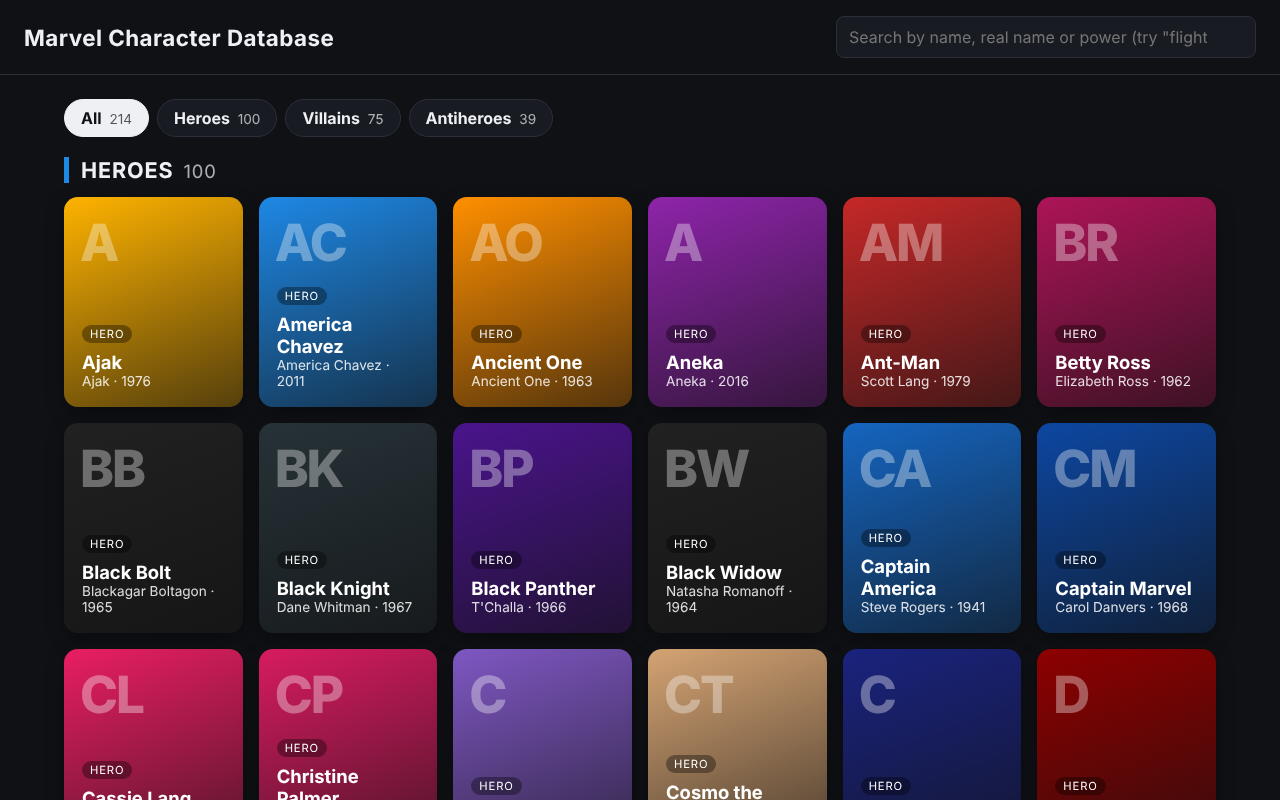
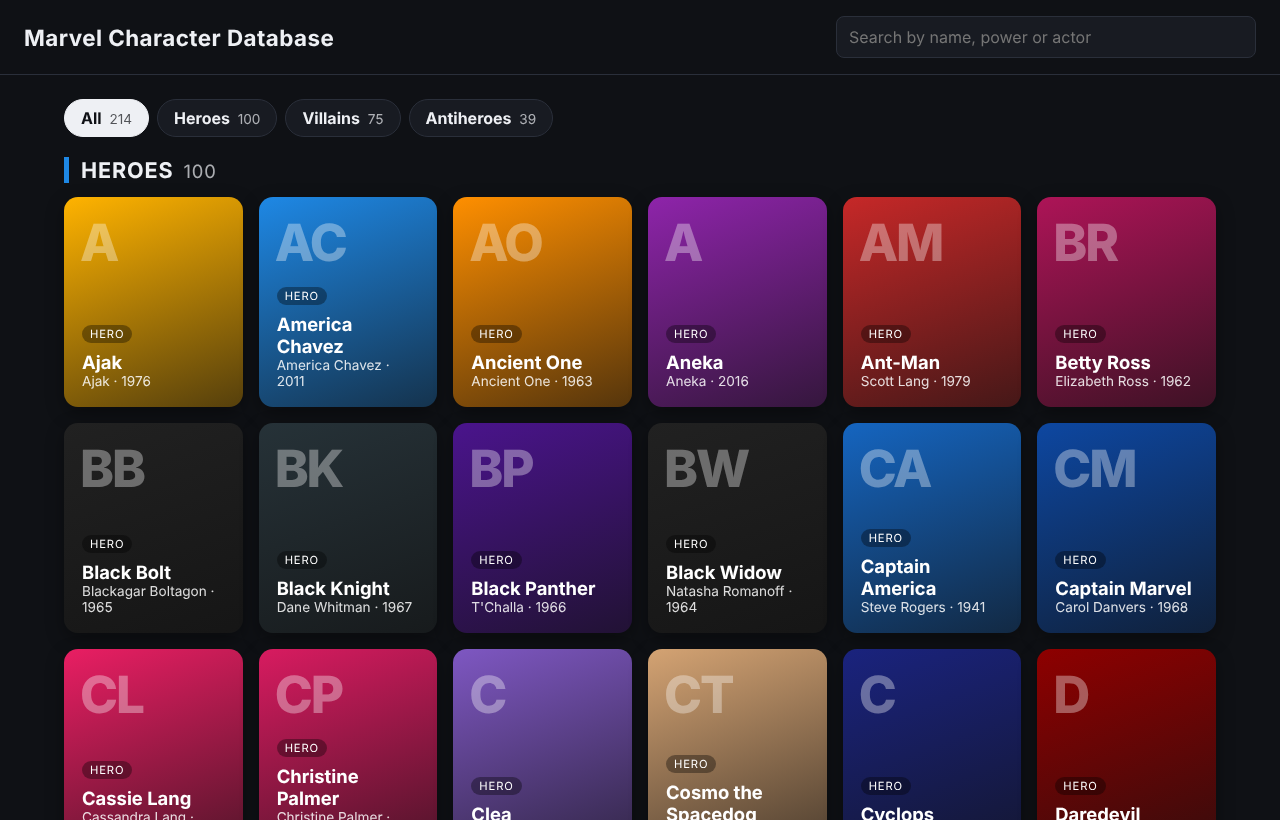
README and screenshots for the new cards: MCU section, relationships, rogues galleries and the photo slot

diff --git a/README.md b/README.md
@@ -2,7 +2,15 @@
 
 **▶ [Live demo](https://theoyanvno.github.io/marvel-character-database/)**
 
-A Python + SQL web app for exploring 214 Marvel characters (100 heroes, 75 villains and 39 antiheroes), grouped into **Heroes**, **Villains** and **Antiheroes**. Type a name, real name or power (try "flight"), switch between sections, or click a card. It includes every comic character with a real role in a Marvel Cinematic Universe film or Disney+ series, from Iron Man (2008) through Spider-Man: Brand New Day and Wonder Man (2026), plus classic characters from the comics. The selected card slides to the side and the character's profile appears next to it: origin, powers, teams, relationships, and a timeline of pop culture highlights.
+A Python + SQL web app for exploring 214 Marvel characters (100 heroes, 75 villains and 39 antiheroes), grouped into **Heroes**, **Villains** and **Antiheroes**. Type a name, real name, power or actor (try "flight" or "Hiddleston"), switch between sections, or click a card. It includes every comic character with a real role in a Marvel Cinematic Universe film or Disney+ series, from Iron Man (2008) through Spider-Man: Brand New Day and Wonder Man (2026), plus classic characters from the comics. The selected card slides to the side and the character's profile appears next to it:
+
+- **In the MCU:** who plays them, their first MCU appearance, a short summary of their story across the movies and shows, and every title they're in
+- **Origin, powers and teams** from the comics
+- **Relationships** grouped into family, romantic and friends (allies for villains)
+- **Rogues gallery:** a hero's enemies as small cards you can click through (villains show the heroes they fight)
+- A timeline of pop culture highlights
+
+Every card has a **photo slot** on its front. Add an image file and one line to the character's data, and the photo fills the card and the profile, with a credit underneath; characters without one keep their color card with initials. See [Card photos](#card-photos).
 
 **Tech:** Python · Flask · SQLite (`sqlite3`) · SQL · vanilla JavaScript · CSS animations · `unittest`
 
@@ -12,24 +20,29 @@ A Python + SQL web app for exploring 214 Marvel characters (100 heroes, 75 villa
 
 ## Database design
 
-Seven related tables ([`sql/schema.sql`](sql/schema.sql)):
+Nine related tables ([`sql/schema.sql`](sql/schema.sql)):
 
 ```
 characters ──< character_powers >── powers
-     │    └──< character_teams  >── teams
-     ├──< relationships  (related_id links back to characters when that person is in the database)
+     │    ├──< character_teams  >── teams
+     │    └──< mcu_roles        >── mcu_titles   (61 MCU movies and series, in release order)
+     ├──< relationships  (family / friend / romantic / enemy; related_id links back to characters)
      └──< appearances    (comic, film, TV, animation; year and notes)
 ```
 
 - **Many-to-many** relationships through link tables (`character_powers`, `character_teams`) with composite primary keys
 - **Foreign keys**, `CHECK` constraints (alignment, relationship kind, medium), `UNIQUE` names and indexes
-- Data loads from [`data/characters.json`](data/characters.json) in a single transaction, then an `UPDATE` with a subquery links relationships to characters that exist in the database
+- Data loads from [`data/characters.json`](data/characters.json) and [`data/mcu_titles.json`](data/mcu_titles.json) in a single transaction, then an `UPDATE` with subqueries links relationships to characters in the database, by hero name or by real name when exactly one character has it
+- Each relationship pair is stored once; the profile query shows it on both characters' pages
 
 ## SQL highlights
 
 The app's queries live in [`sql/app_queries.sql`](sql/app_queries.sql), loaded by [`app/db.py`](app/db.py), and use parameterized statements (`?`) to prevent SQL injection. More to explore in [`sql/queries.sql`](sql/queries.sql):
 
-- Search across three tables with `EXISTS` + `LIKE`, ranked with `ORDER BY CASE` so names that start with the search come before power matches
+- Search across three tables (names, powers, MCU actor) with `EXISTS` + `LIKE`, ranked with `ORDER BY CASE` so names that start with the search come first
+- Relationships from both sides with `UNION` and `NOT EXISTS`, flipping "mentor" to "protégé" with a `CASE` when seen from the other side
+- First MCU appearance by sorting each character's titles with `COALESCE(season year, title year)`
+- Biggest rogues galleries with `COUNT(DISTINCT …)` over enemy pairs stored on either side
 - Powers shared by several characters with `GROUP BY`, `HAVING` and `GROUP_CONCAT`
 - Characters on no team with `LEFT JOIN … IS NULL`
 - Rivalries where both characters are in the database (joining `characters` twice)
@@ -41,11 +54,11 @@ The app's queries live in [`sql/app_queries.sql`](sql/app_queries.sql), loaded b
 
 | Method | Endpoint | Returns |
 |---|---|---|
-| GET | `/api/characters?q=text` | Matching cards (name, real name or power) |
+| GET | `/api/characters?q=text` | Matching cards (name, real name, power or MCU actor) |
 | GET | `/api/characters/<id>` | Full profile, or 404 |
 | GET | `/api/characters?side=villain` | Only heroes, villains or antiheroes (combine with `q`) |
 | GET | `/api/sides` | How many characters are on each side |
-| GET | `/api/stats` | Counts by alignment, most common powers, debuts per decade |
+| GET | `/api/stats` | Counts by alignment, most common powers, debuts per decade, most MCU appearances, biggest rogues galleries |
 
 ## Live demo: the same SQL in the browser
 
@@ -63,7 +76,7 @@ The front end calls one small data layer (`api.cards()`, `api.sides()`, `api.cha
 python -m venv .venv && source .venv/bin/activate   # Windows: .venv\Scripts\activate
 pip install -r requirements.txt
 python -m app.main                                  # http://localhost:5000
-python -m unittest discover -s tests -t .           # 15 tests
+python -m unittest discover -s tests -t .           # 21 tests
 python build_db.py                                  # optional: writes marvel.db to explore in DB Browser for SQLite
 python build_site.py                                # rebuilds the live demo in docs/
 ```
@@ -72,8 +85,17 @@ python build_site.py                                # rebuilds the live demo in 
 
 Add an entry to `data/characters.json` (same fields as the others) and restart the app. The database is rebuilt from the JSON file on startup. Run `python build_site.py` to update the live demo.
 
+## Card photos
+
+1. Put the image in [`app/static/images/`](app/static/images) (`.jpg`, `.png` or `.webp`, portrait works best).
+2. In `data/characters.json`, add `"image": "spider-man.jpg"` to the character, and optionally `"image_credit": "Photo by …"`.
+3. Run `python build_site.py` to update the live demo.
+
+Building the database checks that each `image` is a plain file name with an allowed extension and that the file exists, so a typo stops the build with the character's name instead of showing a broken picture. The search and profile queries return the file name; the front end shows it as the card background with a fade into the card color behind the name. More in [`app/static/images/README.md`](app/static/images/README.md).
+
 ## Notes
 
 - Each character's first comic appearance and creators come from the comics; for characters the films changed (for example Whiplash, Taskmaster or Ghost), the origin explains how the MCU version differs.
-- Unofficial fan project for learning Python and SQL. Not affiliated with or endorsed by Marvel. Character summaries are written in my own words, and the cards use initials instead of artwork.
+- The MCU section covers live-action films and series through October 2026, including the Netflix Defenders shows, which Marvel's official timeline counts as MCU. Characters who haven't appeared yet (like Storm or Magneto) say so. Sony's Venom, Morbius and Kraven films and Fox's X-Men films aren't counted, except where those characters crossed into MCU releases such as No Way Home and Deadpool & Wolverine.
+- Unofficial fan project for learning Python and SQL. Not affiliated with or endorsed by Marvel. Character summaries are written in my own words. Cards show initials until a photo is added; any photo added must be one the owner of this repo has the right to publish, credited on the profile.
 - Built with help from AI coding tools for planning, code review and tests.
